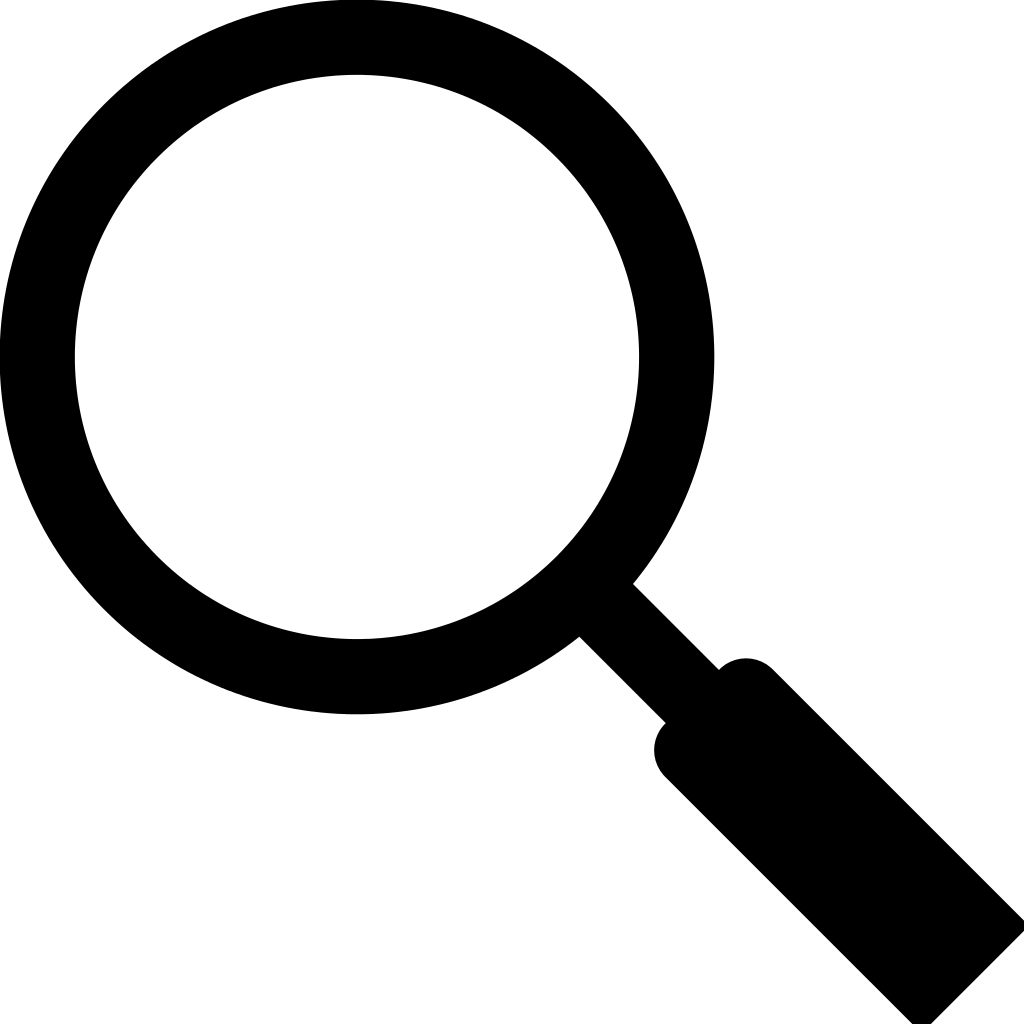
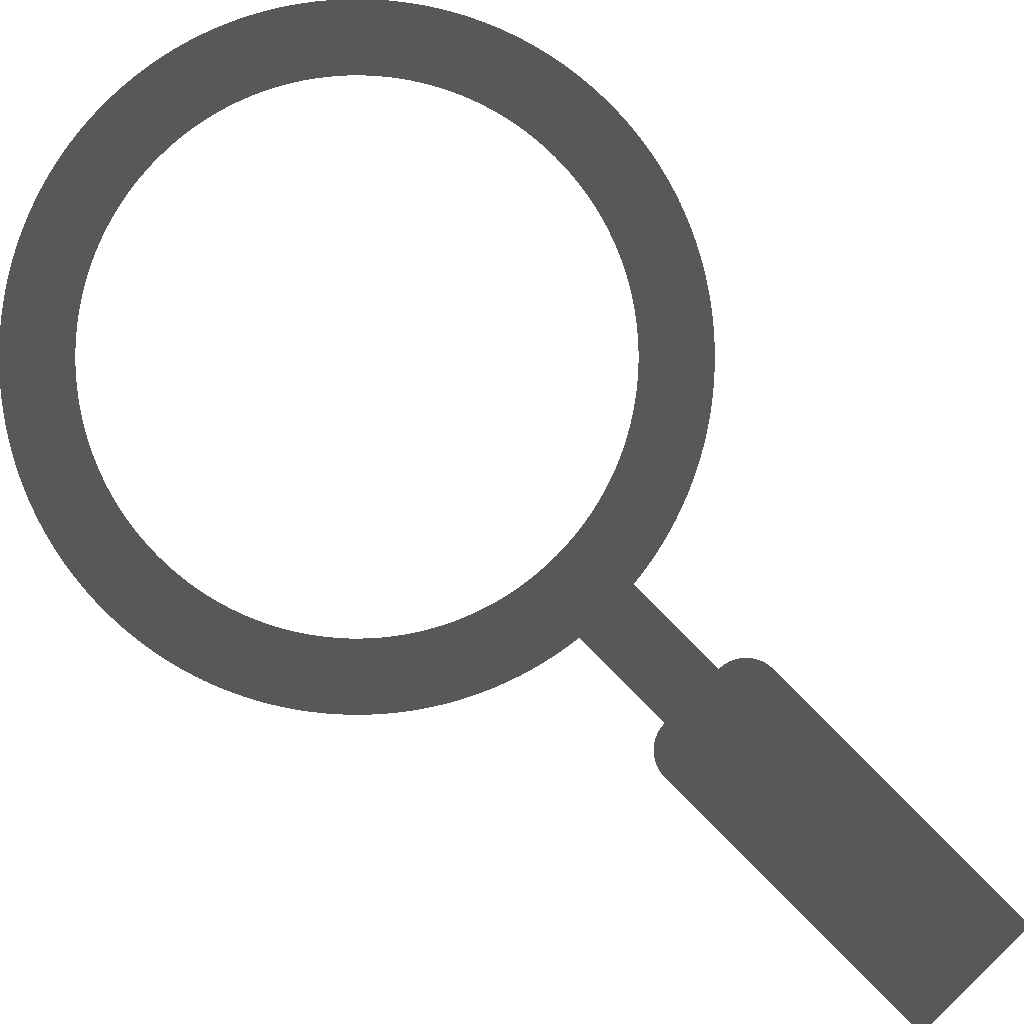
Nuevos Iconos Minimalistas

Changed region(s): [[0.0, 0.0, 1.0, 1.0]]

diff --git a/static/estilo.css b/static/estilo.css
@@ -467,7 +467,7 @@ label.sort-filter{
     width: 32px;
     height: 32px;
     border: none;
-    margin-left:-2%;
+    margin-left:0%;
 }
 .showButton {
     background:url(img/ver.png);
@@ -476,7 +476,7 @@ label.sort-filter{
     width: 25px;
     height: 25px;
     border: none;
-    margin-left:-2%;
+    margin-left:0%;
     margin-bottom: 5px;
 }
 .summaryButton {
@@ -487,6 +487,7 @@ label.sort-filter{
     height: 32px;
     border: none;
     margin-right:10%;
+    margin-left:10%;
 }
 .buttonsES{
 	position:absolute;
